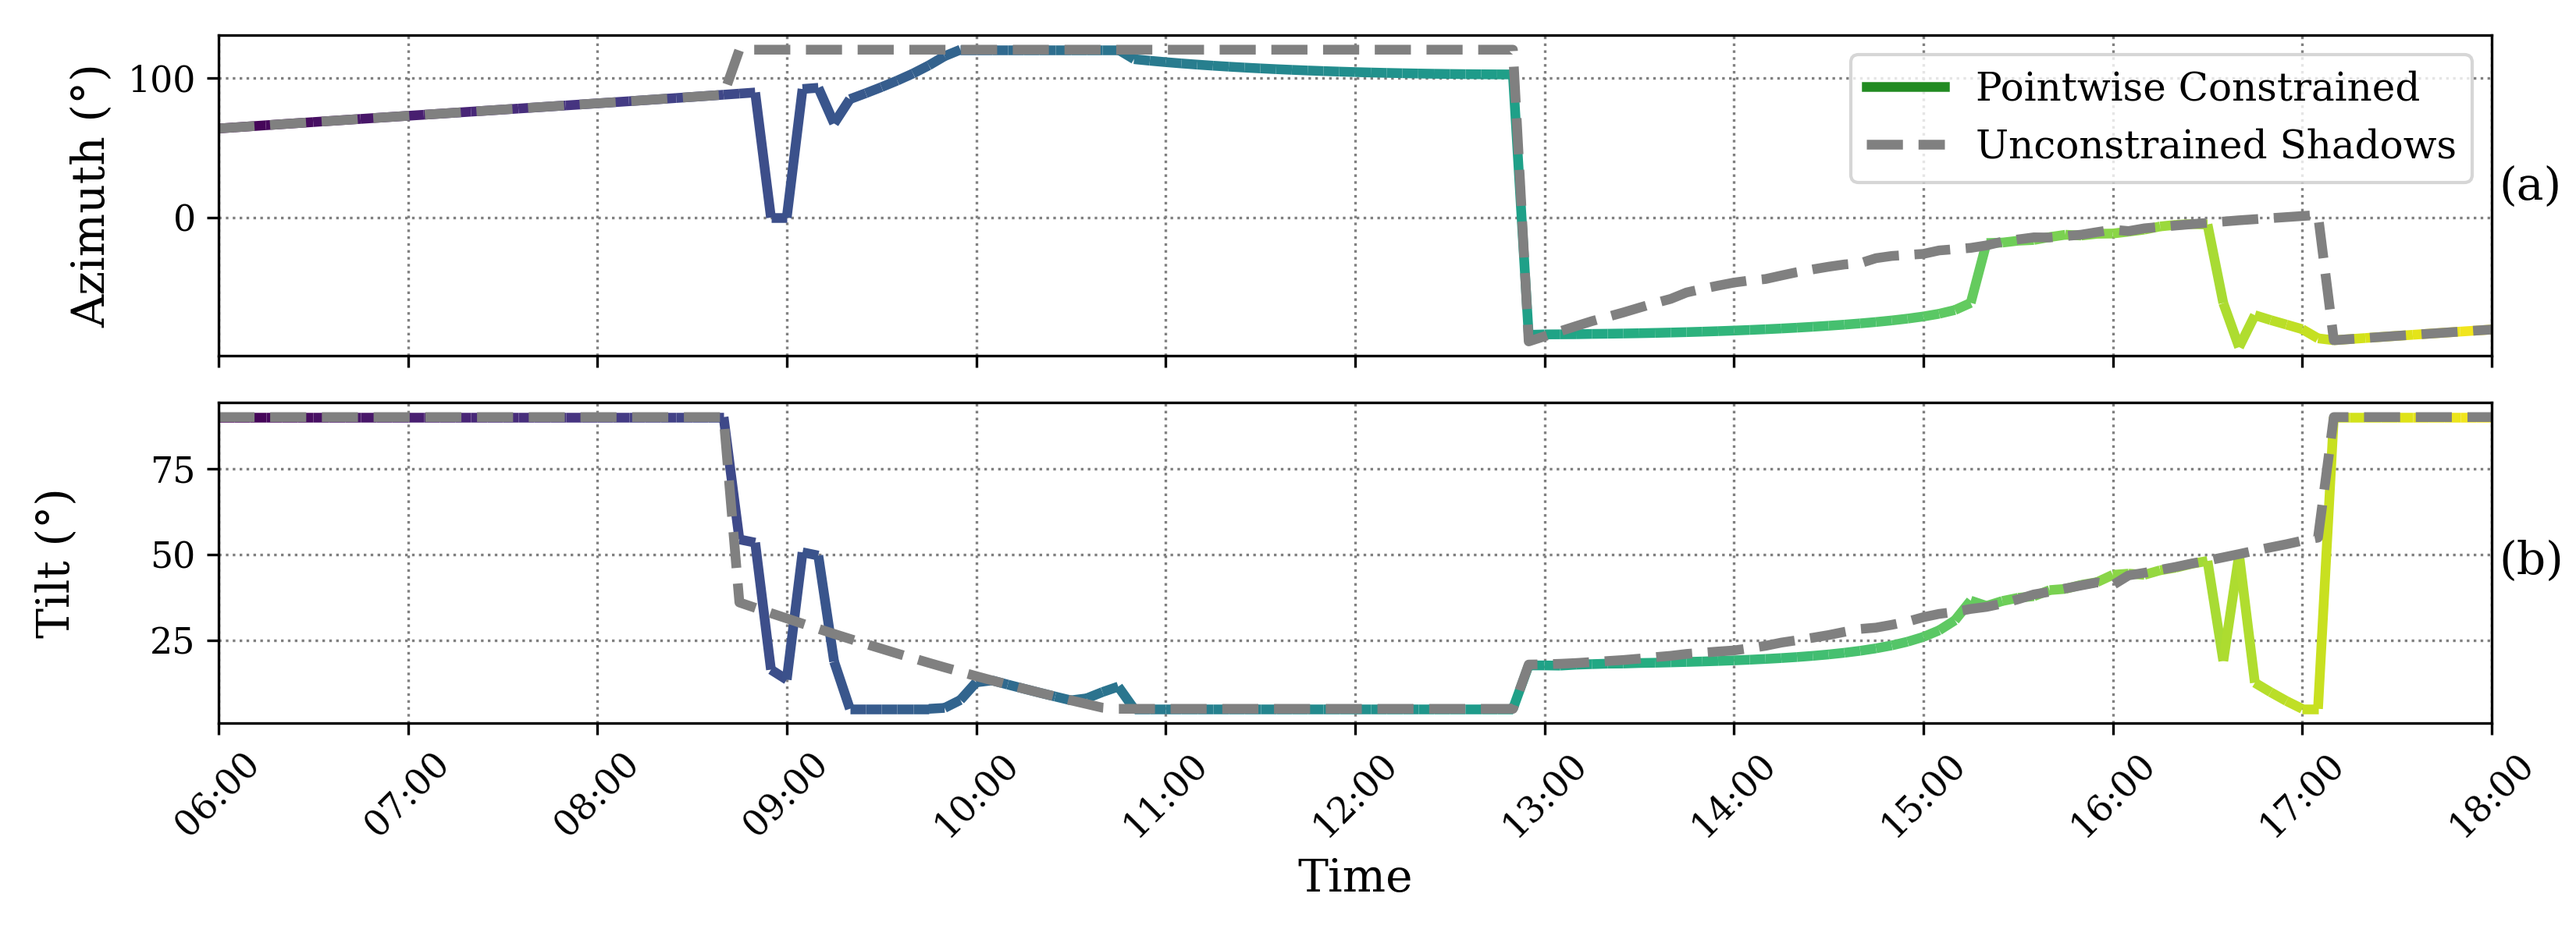
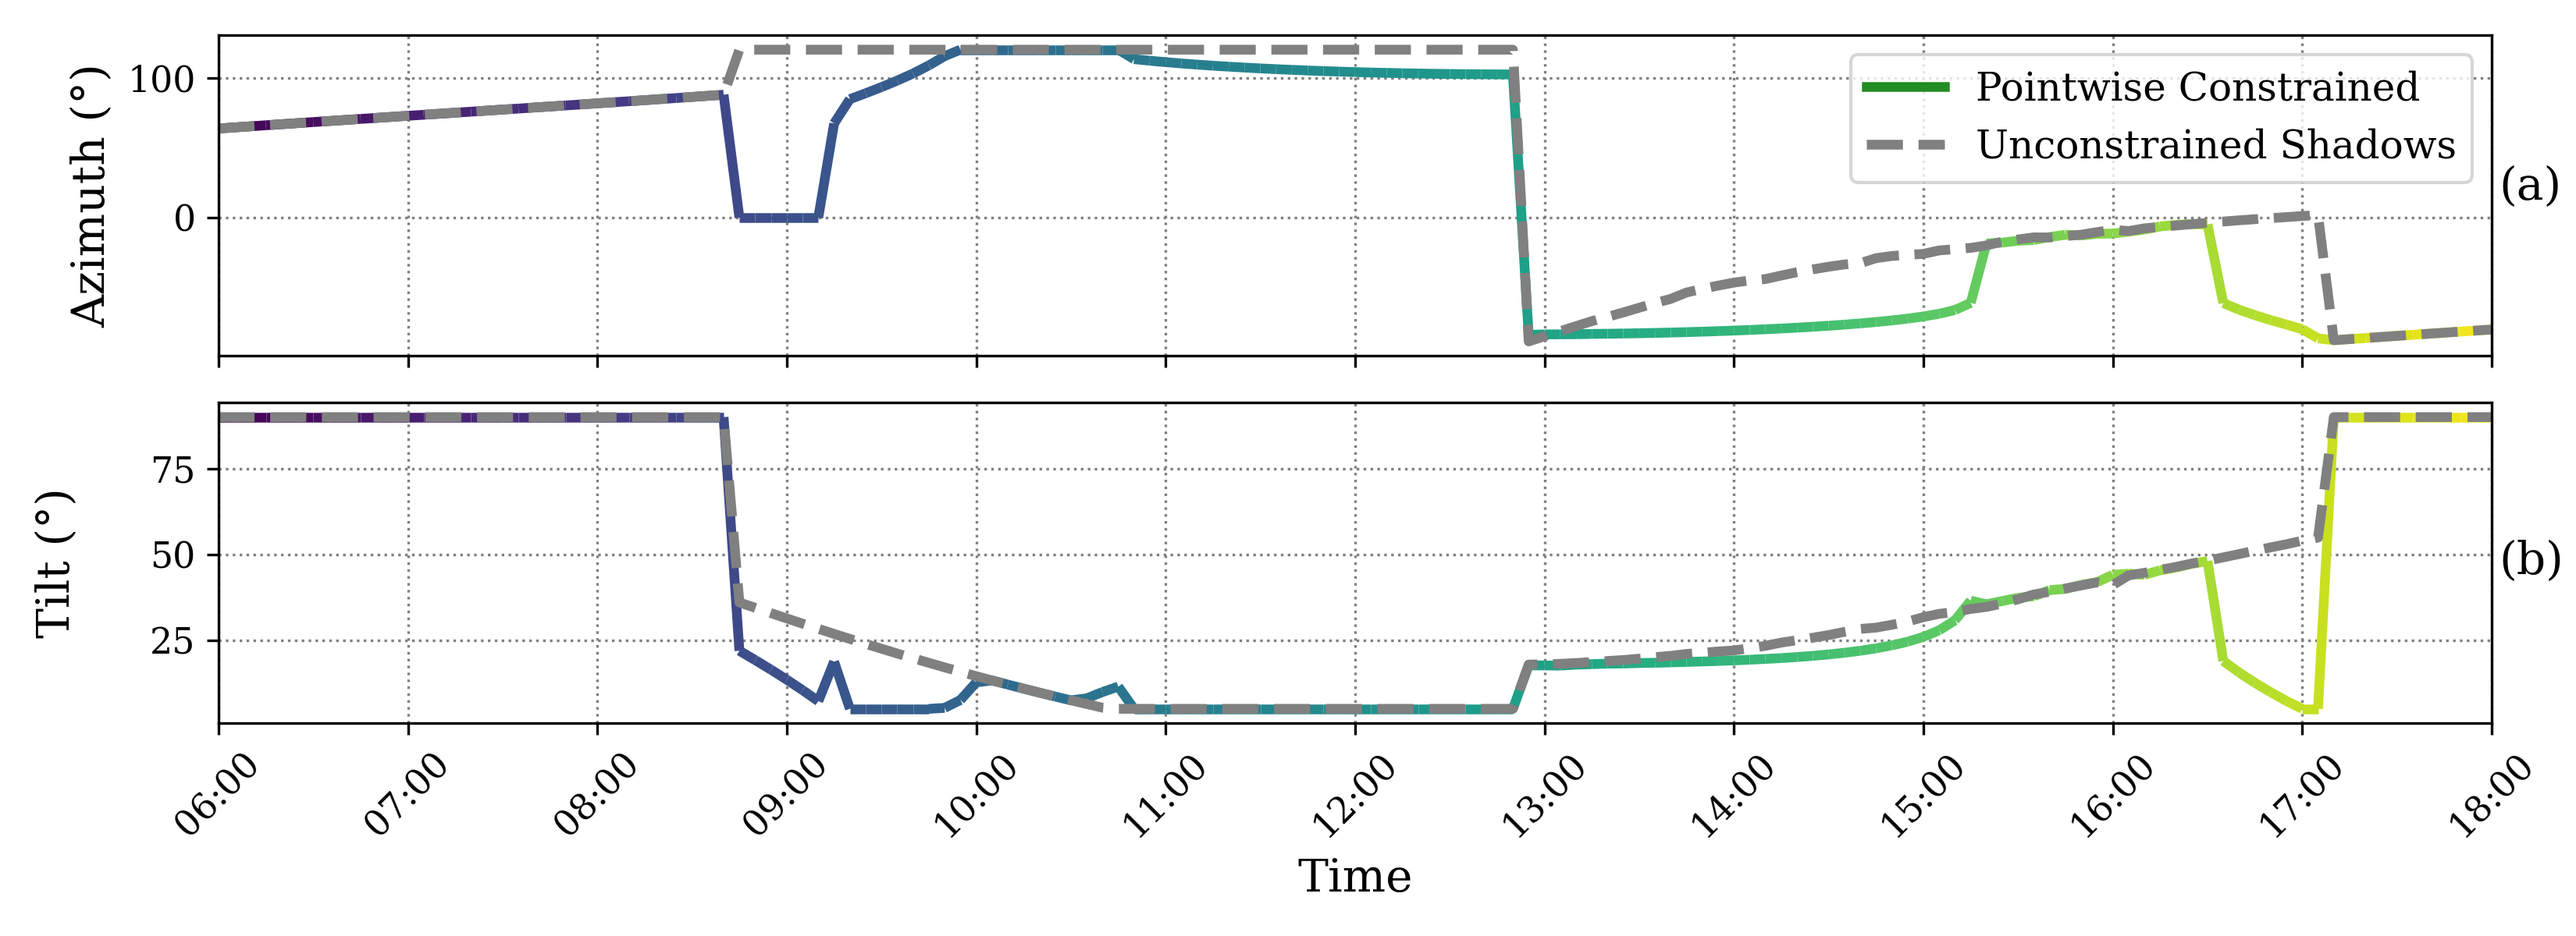
new stepsize

diff --git a/utilities.py b/utilities.py
@@ -345,26 +345,30 @@ def shadow_constraint_hard(x, S, plant_bounds, local_corners, H):
     return min_violation  # Must be ≥ 0 to satisfy
 
 
-def optimize_panel_angles(S, alpha_s, local_corners, MIN_SUN_ALTITUDE_DEG, H, plant_bounds, target_alignment=1.0):
+def optimize_panel_angles(S, alpha_s, local_corners, MIN_SUN_ALTITUDE_DEG, H, plant_bounds, target_alignment=1.0, x0_prev=None):
     if np.degrees(alpha_s) < MIN_SUN_ALTITUDE_DEG:
         phi_p = np.arctan2(S[1], S[0])
         alpha_p = np.pi / 2  # Fully vertical panel if Sun too low
         return phi_p, alpha_p
 
-    x0 = [np.arctan2(S[1], S[0]), np.arccos(S[2])]  # Initial guess: face toward sun
+    # x0 = [np.arctan2(S[1], S[0]), np.arccos(S[2])]  # Initial guess: face toward sun
+    if x0_prev is None:
+        x0 = [np.arctan2(S[1], S[0]), np.arccos(S[2])]
+    else:
+        x0 = x0_prev
+
     azimuth_bounds = (-2 * np.pi / 3, 2 * np.pi / 3)  # ±120° in radians
-    tilt_bounds = (np.radians(5), np.pi / 2)     # 5° to 60° in radians
+    tilt_bounds = (np.radians(5), np.pi / 2)     # 5° to 90° in radians
 
     bounds = [azimuth_bounds, tilt_bounds]
 
-    # constraints = [{'type': 'ineq', 'fun': shadow_constraint2, 'args': (S, plant_bounds, local_corners, H)}]
     constraints = [{'type': 'ineq', 'fun': shadow_constraint_hard, 'args': (S, plant_bounds, local_corners, H)}]
 
     result = minimize(
         objective_goal_seeking, x0,
         args=(S, target_alignment),
         method='SLSQP',
-        options={'ftol': 1e-9, 'disp': True},
+        options={'ftol': 1e-9, 'disp': True, 'maxiter': 50000, 'eps': 1e-11},
         bounds=bounds,
         constraints=constraints
     )

diff --git a/main.py b/main.py
@@ -87,6 +87,8 @@ def run_optimization(sun_positions, GHI, constraint_problem, target_alignment_in
         total_plant_radiation = 0
         constraint_penalties_step = []
 
+        x0_prev = None  # Start fresh
+
         for i, (phi_s_deg, alpha_s_deg) in enumerate(sun_positions):
             phi_s = np.radians(phi_s_deg)
             alpha_s = np.radians(alpha_s_deg)
@@ -97,7 +99,8 @@ def run_optimization(sun_positions, GHI, constraint_problem, target_alignment_in
             ])
 
             if constraint_problem:
-                phi_p, alpha_p = optimize_panel_angles(S, alpha_s, local_corners, MIN_SUN_ALTITUDE_DEG, H, plant_bounds, target_alignment)
+                phi_p, alpha_p = optimize_panel_angles(S, alpha_s, local_corners, MIN_SUN_ALTITUDE_DEG, H, plant_bounds, target_alignment, x0_prev)
+                 #x0_prev = [phi_p, alpha_p]  # Save for next time step
             else:
                 phi_p, alpha_p = optimize_panel_angles_no_constraints(S, alpha_s, local_corners, MIN_SUN_ALTITUDE_DEG, H, plant_bounds, target_alignment)
 
